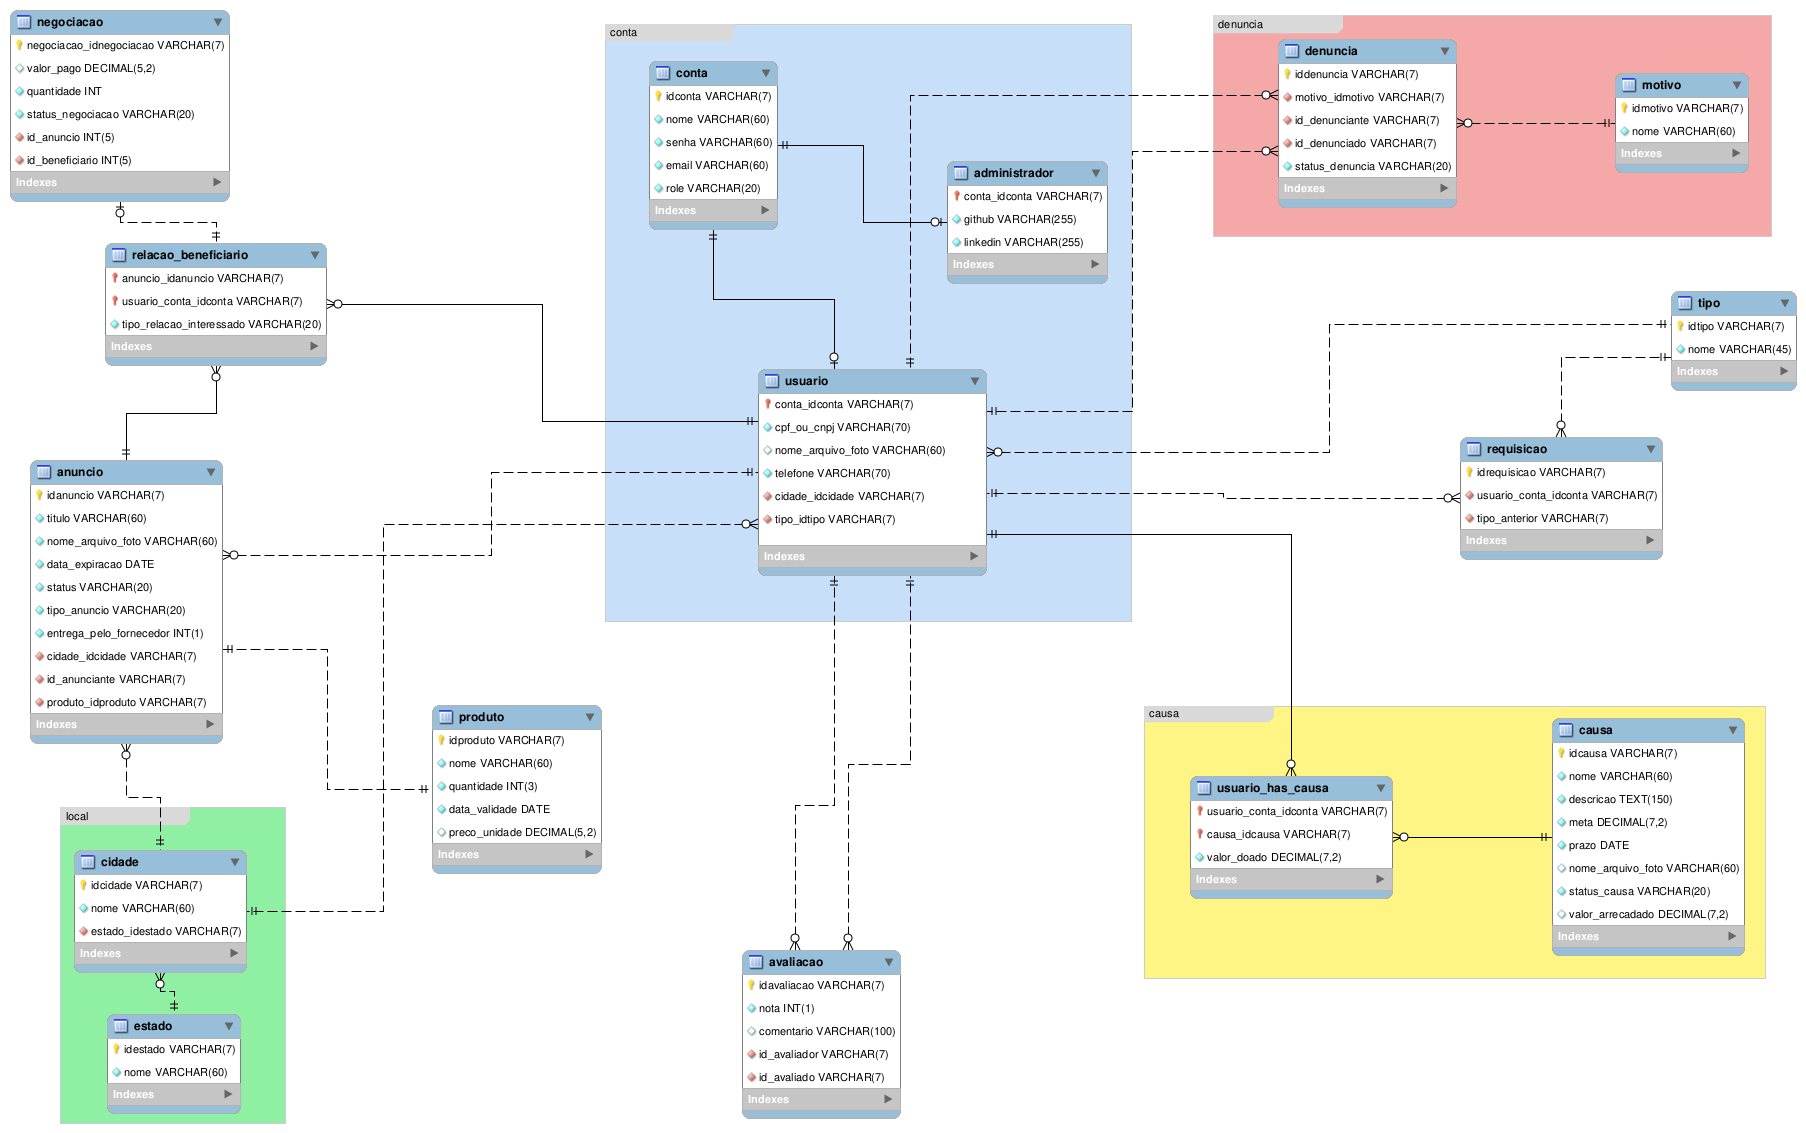
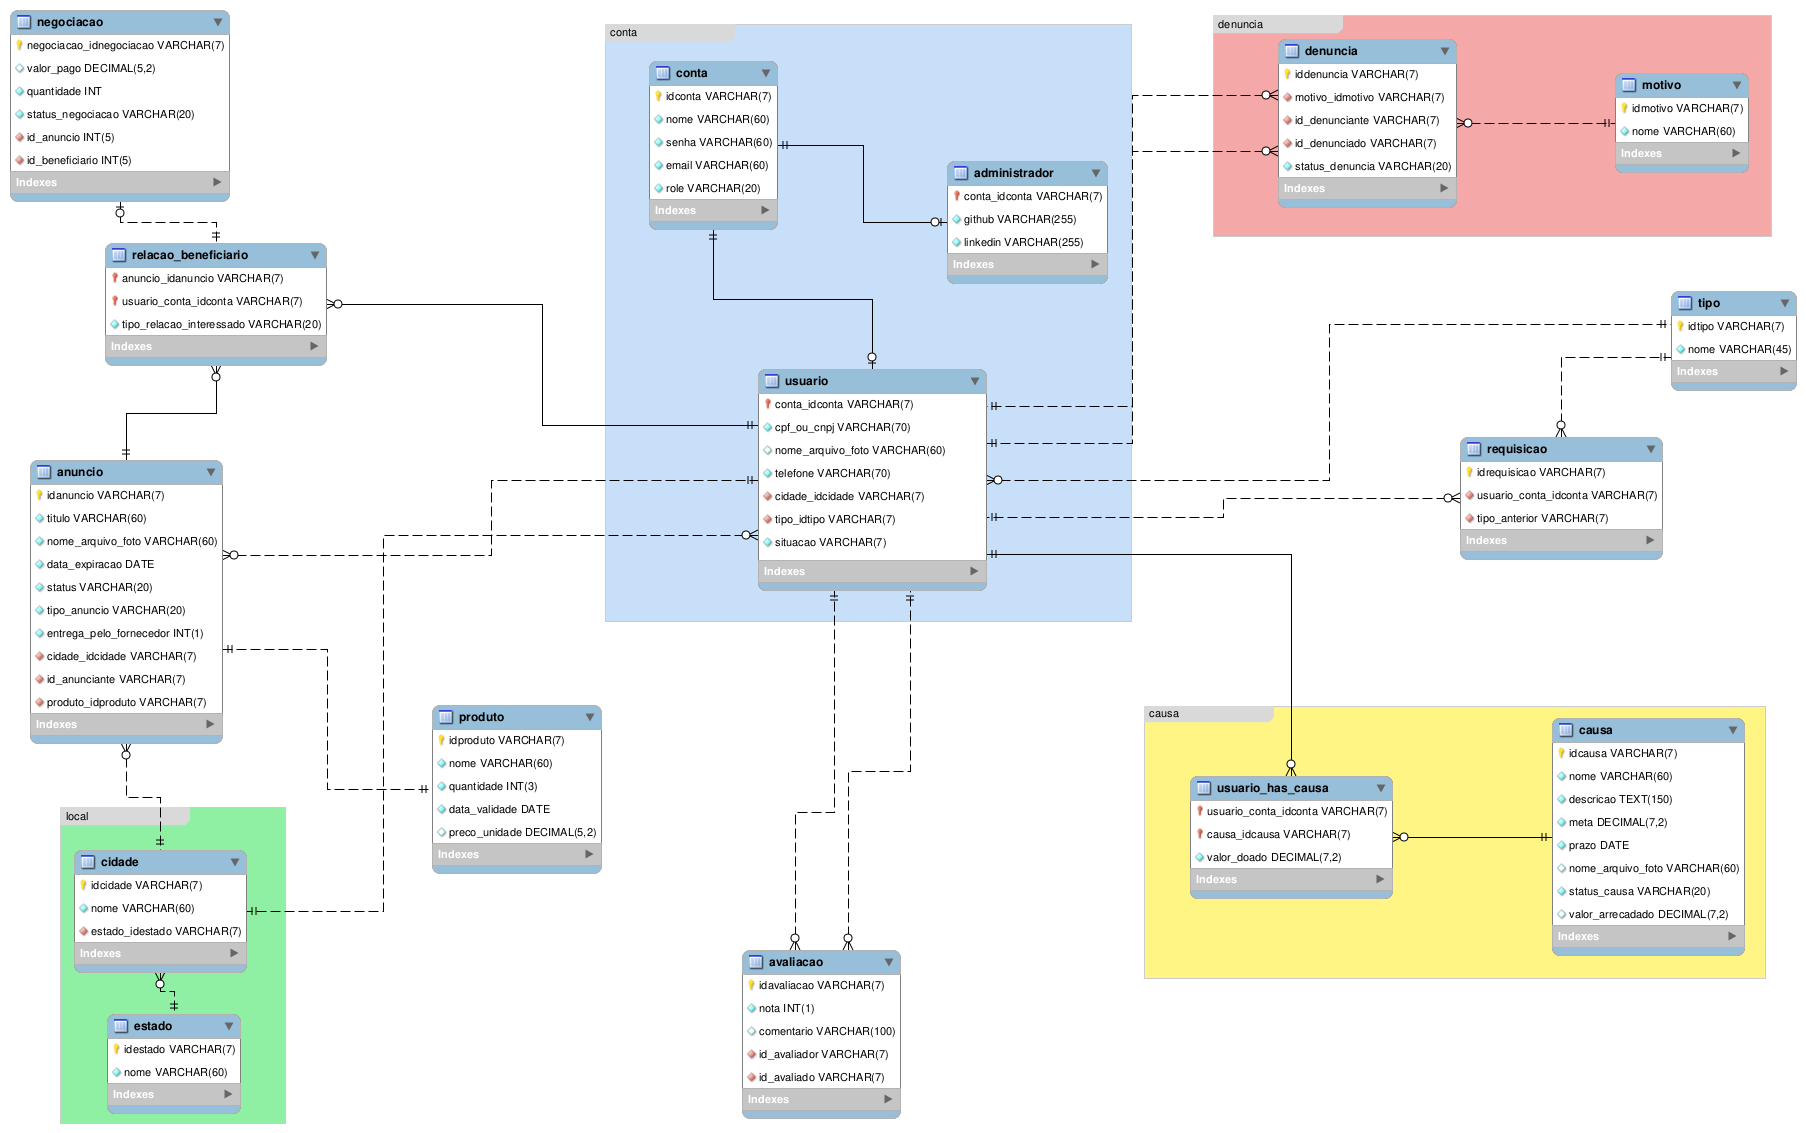
feat: base para desativar conta do usuario

Changed region(s): [[0.4031, 0.4634, 0.5581, 0.5252]]

diff --git a/src/main/java/com/labweb/agrodoa_backend/model/contas/Usuario.java b/src/main/java/com/labweb/agrodoa_backend/model/contas/Usuario.java
@@ -4,6 +4,7 @@ import java.util.ArrayList;
 import java.util.List;
 
 import com.labweb.agrodoa_backend.model.Tipo;
+import com.labweb.agrodoa_backend.model.enums.SituacaoUsuario;
 import com.labweb.agrodoa_backend.model.local.Cidade;
 import com.labweb.agrodoa_backend.model.relacoes.DoacaoCausa;
 import com.labweb.agrodoa_backend.model.relacoes.RelacaoBeneficiario;
@@ -15,6 +16,8 @@ import jakarta.persistence.CascadeType;
 import jakarta.persistence.Column;
 import jakarta.persistence.DiscriminatorValue;
 import jakarta.persistence.Entity;
+import jakarta.persistence.EnumType;
+import jakarta.persistence.Enumerated;
 import jakarta.persistence.FetchType;
 import jakarta.persistence.Inheritance;
 import jakarta.persistence.InheritanceType;
@@ -69,6 +72,10 @@ public class Usuario extends Conta{
     @OneToMany(mappedBy = "beneficiario", cascade = CascadeType.ALL, orphanRemoval = true)
     private List<RelacaoBeneficiario> relacoesAnuncio = new ArrayList<>(); //caso seja beneficiario ou hibrido
 
+    @Enumerated(EnumType.STRING)
+    @Column(name = "situacao")
+    private SituacaoUsuario situacaoUser;
+
     public Usuario(String nome, String email, String senha, String cpfOuCnpj, String nomeArquivoFoto, String telefone, Cidade cidade, Tipo tipoUsuario) {
         super(nome, email, senha);
         this.cpfOuCnpj = cpfOuCnpj;
@@ -76,6 +83,7 @@ public class Usuario extends Conta{
         this.telefone = telefone;
         this.cidade = cidade;
         this.tipoUsuario = tipoUsuario;
+        this.situacaoUser = SituacaoUsuario.ATIVO; //valor padrão
     }
 
     @Override

diff --git a/src/main/java/com/labweb/agrodoa_backend/specification/UsuarioSpecification.java b/src/main/java/com/labweb/agrodoa_backend/specification/UsuarioSpecification.java
@@ -3,14 +3,32 @@ package com.labweb.agrodoa_backend.specification;
 import org.springframework.data.jpa.domain.Specification;
 
 import com.labweb.agrodoa_backend.model.contas.Usuario;
+import com.labweb.agrodoa_backend.model.enums.SituacaoUsuario;
 
 public class UsuarioSpecification {    //falta diminuir os repositories com specifications que a gente já tem
     public static Specification<Usuario> filtrarPorTipo(String tipo) {
         return (root, query, cb) -> {
-            if (tipo == null || tipo.isEmpty()) {
+            if (tipo == null || tipo.isBlank()) {
                 return cb.conjunction();
             }
             return cb.equal(cb.lower(root.get("tipoUsuario").get("nome")), tipo.toLowerCase());
+        };
+    }
+
+    public static Specification<Usuario> filtrarPorSituacao(String situacao) {
+        return (root, query, cb) -> {
+            if (situacao == null || situacao.isBlank()) {
+                return cb.conjunction();
+            }
+
+            SituacaoUsuario situacaoEnum;
+            try {
+                situacaoEnum = SituacaoUsuario.valueOf(situacao.toUpperCase());
+            } catch (IllegalArgumentException e) {
+                return cb.disjunction(); //nesse caso n vai retornar nada
+            }
+            
+            return cb.equal(root.get("situacaoUser"), situacaoEnum);
         };
     }
 }

diff --git a/src/main/java/com/labweb/agrodoa_backend/controller/contas/UsuarioController.java b/src/main/java/com/labweb/agrodoa_backend/controller/contas/UsuarioController.java
@@ -30,8 +30,11 @@ public class UsuarioController {
     private UsuarioService userService;
 
     @GetMapping
-    public ResponseEntity<List<UsuarioRespostaDTO>> listarUsuariosPorTipo(@RequestParam(required = false) String tipo){
-        List<UsuarioRespostaDTO> usuarios = userService.buscarUsuarioFiltro(tipo);
+    public ResponseEntity<List<UsuarioRespostaDTO>> listarUsuariosPorTipo(
+        @RequestParam(required = false) String tipo,
+        @RequestParam(required = false) String situacao){
+
+        List<UsuarioRespostaDTO> usuarios = userService.buscarUsuarioFiltro(tipo, situacao);
         if(usuarios.isEmpty()){
              return ResponseEntity.noContent().build();
         }
@@ -44,8 +47,8 @@ public class UsuarioController {
         return ResponseEntity.ok(usuario);
     }   
 
-    @DeleteMapping({"/{idUser}/apagar_conta"})
-    public ResponseEntity<Void> apagarContaUser(@PathVariable String idUser) {  //deveria ter apagar? ou só desativar?
+    @DeleteMapping({"/{idUser}/desativar_conta"})
+    public ResponseEntity<Void> desativarContaUser(@PathVariable String idUser) {  //deveria ter apagar? ou só desativar?
         userService.apagarPerfilUser(idUser);
         return ResponseEntity.noContent().build(); // HTTP 204 No Content
     } 

diff --git a/src/main/java/com/labweb/agrodoa_backend/service/contas/UsuarioService.java b/src/main/java/com/labweb/agrodoa_backend/service/contas/UsuarioService.java
@@ -32,9 +32,10 @@ public class UsuarioService {
     @Autowired
     private PasswordEncoder passwordEncoder;
 
-    public List<UsuarioRespostaDTO> buscarUsuarioFiltro(String tipo){
+    public List<UsuarioRespostaDTO> buscarUsuarioFiltro(String tipo, String situacao){
         Specification<Usuario> spec = Specification
-                                                .where(UsuarioSpecification.filtrarPorTipo(tipo));
+                                                .where(UsuarioSpecification.filtrarPorTipo(tipo))
+                                                .and(UsuarioSpecification.filtrarPorSituacao(situacao));
 
         return userRepo.findAll(spec)
                        .stream()

diff --git a/src/main/java/com/labweb/agrodoa_backend/config/SecurityConfig.java b/src/main/java/com/labweb/agrodoa_backend/config/SecurityConfig.java
@@ -61,6 +61,9 @@ public class SecurityConfig {
             .requestMatchers(HttpMethod.GET, "/usuarios").hasRole("ADMINISTRADOR")
             .requestMatchers(HttpMethod.POST, "/causas/criar_causa").hasRole("ADMINISTRADOR")
 
+            //endpoints adm
+            .requestMatchers(HttpMethod.PUT, "/usuarios/*/desativar_conta").hasAnyRole("FORNECEDOR", "BENEFICIARIO")
+
             .anyRequest().authenticated()
             )
             .sessionManagement(sess -> sess.sessionCreationPolicy(SessionCreationPolicy.STATELESS)) //usar token em vez de session

diff --git a/src/main/java/com/labweb/agrodoa_backend/model/enums/SituacaoUsuario.java b/src/main/java/com/labweb/agrodoa_backend/model/enums/SituacaoUsuario.java
@@ -1,0 +1,7 @@
+package com.labweb.agrodoa_backend.model.enums;
+
+public enum SituacaoUsuario {
+    ATIVO,
+    INATIVO,
+    BANIDO //suspenso
+}
